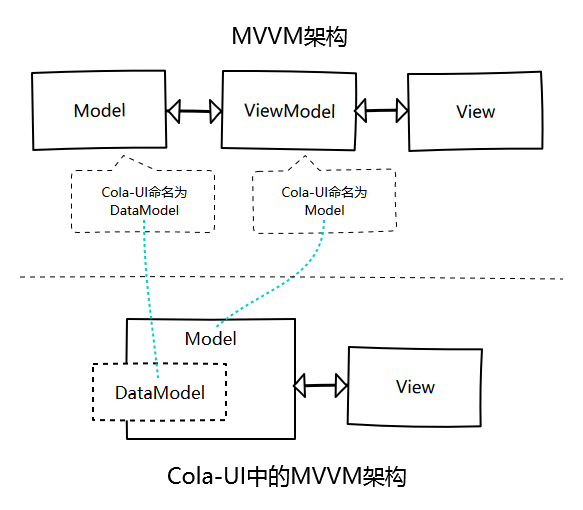
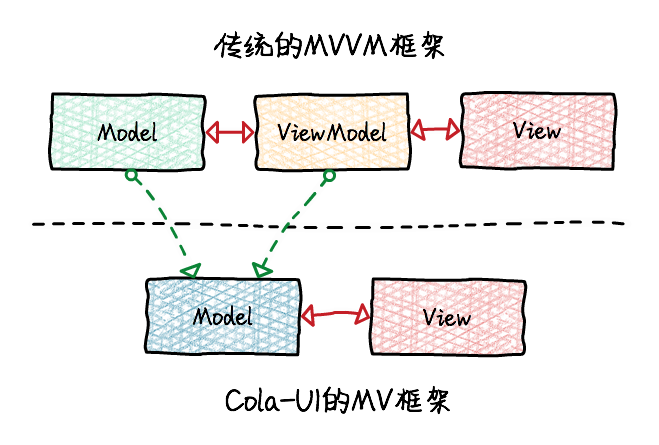
补充教程

diff --git a/routes/data/guide-menus.js b/routes/data/guide-menus.js
@@ -4,6 +4,10 @@ module.exports = [
 		path: "/guide/quick-start"
 	},
 	{
+		label: "MV架构",
+		path: "/guide/mv"
+	},
+	{
 		label: "Model (视图模型)",
 		path: "/guide/model"
 	},

diff --git a/views/guide/model.md b/views/guide/model.md
@@ -1,109 +1,72 @@
-在Cola-UI的绝大部分使用场景中我们只会接触到Model和View这两种对象，View是指页面的DOM树或控件，而Model则相当于MVVM概念中的ViewModel和Model的合体。在绝大部分场景中我们并没有必要区分这两种对象，因此我们没必要接触过多的概念徒劳的增加复杂度。其实Cola-UI并没有真正的合并ViewModel和Model，如果有需要您完全可以从Model中分离出一个叫DataModel的对象实现完整的MVVM，具体的做法此文暂不做论述。
-
-![MVVM](/resources/images/docs/mvvm.png)
-
-Model对象管理三件事：数据、绑定、Action。
+在Cola-UI的Model对象管理三件事：数据、绑定、Action。
 
 * 数据通常利用Model的get和set方法来读取和写入。
 * 数据绑定通常都是通过DOM指令或控件的绑定表达式来建立。
 * Action通常利用Model的action方法来声明和访问。
 
-## Model中的主要方法
+## Model中的数据
+Model本身的结构有点像一个Map，数据存储在各个命名的数据项中。每个数据项的值既可以是string、boolean这样的简单值，也可以是复杂的数据实体和集合。
 
-* ### set() / get()
-    用于设置和获取Model中的数据。Model管理数据的方式有点像Map对象，一个Model可以有若干个数据项，每个数据项的值既可以是string、boolean这样的简单值，也可以是复杂的数据实体和集合。
+例如，下面的代码向Model中读写了一个名为name的数据项。
 
-    例如：
-    ```javascript
-    // 设置name数据项的值为"Bob"
-    model.set("name", "Bob");
+```javascript
+// 设置name数据项的值为"Bob"
+model.set("name", "Bob");
 
-    // 设置person数据项的值为一个数据实体
-    model.set("person", {
-        name: "Tom",
-        age: 16
-    });
+// 从Model中读取一个名为name的数据项。
+var name = model.get("name");
+```
 
-    // 设置addresses数据项的值为一个包含三个数据实体的集合
-    model.set("addresses", [
-        { city: "ShangHai" },
-        { city: "BeiJing" },
-        { city: "ShenZhen" }
-    ]);
-    ```
+Model的set()/get()的行为特征与cola.Entity的set()/get()几乎是完全一致的，事实上Model的set()/get()在内部正是通过cola.Entity的set()/get()实现的，因此要更详细的了解这两个方法可以直接参考cola.Entity的set()/get()的说明。
 
-    Model的set()/get()的行为特征与cola.Entity的set()/get()几乎是完全一致的，事实上Model的set()/get()在内部正是通过cola.Entity的set()/get()实现的，因此要更详细的了解这两个方法可以直接参考cola.Entity的set()/get()的说明。
+## 动作
+Model除了管理数据之外还可以管理动作。利用Model的action()方法可以为Model定义一到多个Action。具体请参考[Action](action)
 
-* ### describe()
-    set()/get()是用来读写Model中的数据的，而describe()则是用来描述Model中的数据。比如描述某个数据项的数据类型、数据获取来源、校验逻辑等。describe()的参数被设计的颇为灵活，用于降低各种场景下的使用复杂度。
+## 绑定关系
+Model会自动管理由DOM指令或其它方式声明的绑定关系，监听Model中数据的变化，将这些消息按需广播给相应的DOM或数据绑定控件。
 
-    例如：
-    ```javascript
-    // 描述price数据项的数据类型number。
-    // 为当第二个参数是string时，将被认为是一个DataType的名称
-    model.describe("price", "number");
+建立绑定的方式有如下几种：
+### DOM指令
+如下几种情况都会为DOM节点或DOM节点的属性建立数据绑定关系。
+```html
+<div c-bind="name"></div>
+<div c-style="color:fontColor"></div>
+```
 
-    // 描述age数据项的数据类型number和校验规则。
-    // 为当第二个参数是JSON时，将被认为是一个cola.Property对象的配置参数
-    model.describe("age", {
-        dataType: "number",
-        validators: [
-            "required",
-            {
-                $type: "number",
-                min: 1,
-                max: 120
-            }
-        ]
-    });
+### 数据绑定控件
+Cola-UI中的文本录入框(c-input)、复选框(c-checkbox)、表格(c-table)、表单(c-form)等支持数据绑定的控件本身就支持bind属性，可以直接利用该属性生命数据绑定关系。例如：
+```javascript
+new cola.Input({
+    bind: "name"
+});
+```
 
-    // 描述items数据项的数据将利用AJAX从某个url处装载
-    model.describe("items", {
-        provider: "http://cola-ui.com/services/items.json"
-    });
-    ```
+当我们利用DOM指令来生命一个控件时，也可以直接通过bind属性来声明数据绑定。例如：
+```html
+<c-input bind="name"></c-input>
+```
 
-* ### dataType()
-    dataType()用于预定义DataType或按照名称获取DataType。
+考虑开发人员可以已经用惯了普通DOM节点中的c-bind指令，为了避免让开发人员在定义数据绑定控件是为了究竟应该使用bind还是c-bind为纠结。Cola-UI允许开发人员在这种情况下以c-bind来替代bind。因此，下面例子的作用跟上面使用bind属性的完全一样。
+```html
+<c-input c-bind="name"></c-input>
+```
 
-    例如：
-    ```javascript
-    // 声明一个名为Person的DataType
-    model.dataType({
-        name: "Person",
-        properties: {
-            name: {
-                required: true
-            },
-            age: {
-                dataType: "int",
-                validator: {
-                    $type: "number",
-                    min: 1,
-                    max: 120
-                }
-            },
-            gender: {
-                dataType: "boolean"
-            }
-        }
-    });
-
-    // 描述person数据项的数据类型为上面声明的Person
-    model.describe("person", "Person");
-
-    // 根据名称获得DataType的实例
-    var DataType = model.dataType("person");
-    ```
-
-* ### action()
-    用于为Model定义一到多个Action。具体请参考[Action](action)
-
-* ### widgetConfig()
-    利用此方法可以将一些原本需要定义在HTML中的控件属性声明提取到Javascript中，以方便开发者进行更加直观的配置。
+### 属性值的内嵌表达式
+如果我们需要用Javascript来声明一个控件的话就无法使用上面的两个方法了声明数据绑定了。这时我们可以使用内嵌的表达式。例如：
+```javascript
+new cola.Button({
+    caption: "{{name}}"
+});
+```
+上面的例子将Button的caption属性与name数据项建立的绑定。绑定关系也可以这样来定义...
+```javascript
+new cola.Label({
+    text: "姓名: {{name}}"
+});
+```
 
 ## 子Model
-Model对于一个页面而言往往并不是一个唯一的实例，很多情况下Cola-都会根据需要创建出主Model的子Model实例，子Model实例可视作是主Model的代理对象。通过子Model我们仍然可以访问主Model中的数据和Action。
+Model对于一个页面而言往往并不是一个唯一的实例，很多情况下Cola-UI都会根据需要创建出主Model的子Model实例，子Model实例可视作是主Model的代理对象。通过子Model我们仍然可以访问主Model中的数据和Action。
 最常见的接触到子Model的机会是使用c-repeat指令时和使用Cola的[Router](router)功能时。
 
 以下面的示例为例：

diff --git a/views/guide/mv.md b/views/guide/mv.md
@@ -1,0 +1,24 @@
+为了减少前端开发的工作量，降低学习难度，Cola-UI采用了精简的MVVM架构，我们称之为MV架构。
+
+![MVVM](/resources/images/docs/mvvm.png)
+
+从上图中我们看到Cola-UI中的Model相当于MVVM概念中的ViewModel和Model的合体。在绝大部分场景中我们并没有必要区分这两种对象，因此我们没必要接触过多的概念徒劳的增加复杂度。其实Cola-UI并没有真正的合并ViewModel和Model，如果有需要您完全可以从Model中分离出一个叫DataModel的对象实现完整的MVVM，具体的做法此文暂不做论述。
+
+Cola-UI中的Model对象管理三件事：数据、绑定、Action。
+
+* 数据通常利用Model的get和set方法来读取和写入。
+* 数据绑定通常都是通过DOM指令或控件的绑定表达式来建立。
+* Action通常利用Model的action方法来声明和访问。
+
+## 双向数据绑定
+
+<script async src="//jsrun.net/RrkKp/embed/all/light/"></script>
+
+上面是一个比较经典的双向绑定的示例，其中的Label和Input都与Model建立了关联，点击按钮可以设置数据模型中的数据项。我们以一张图片来分析其中的绑定关系。
+
+![Binding](/resources/images/docs/binding.png)
+
+Label与Model之间事实上是一种动态的单向绑定，而Input与Model之间则是动态的双向绑定关系，因为我们可以利用Input来改变数据。当用户在Input中进行输入时，Input会将用户输入的内容更新到Model中。Model检测到其中的数据项变化之后，将这一消息广播给同样绑定到这一数据项的Label，因此Label就能自动显示出最新的数据变化。
+
+当用户点击按钮时，按钮的事件会调用到我们定义在Model中的Action，Action的代码会修改Model中的数据项。同样的，Model检测到其中的数据项变化之后，将这一消息广播给同样绑定到这一数据项的Label和Input，因此Label和Input就能自动显示出最新的数据变化。
+

diff --git a/views/guide/coson.md b/views/guide/coson.md
@@ -197,7 +197,6 @@ cola.xRender([
 		"c-bind": "text"
 	},
 	{
-		tagName: "input",
 		"c-bind": "text"
 	}
 ], model);
